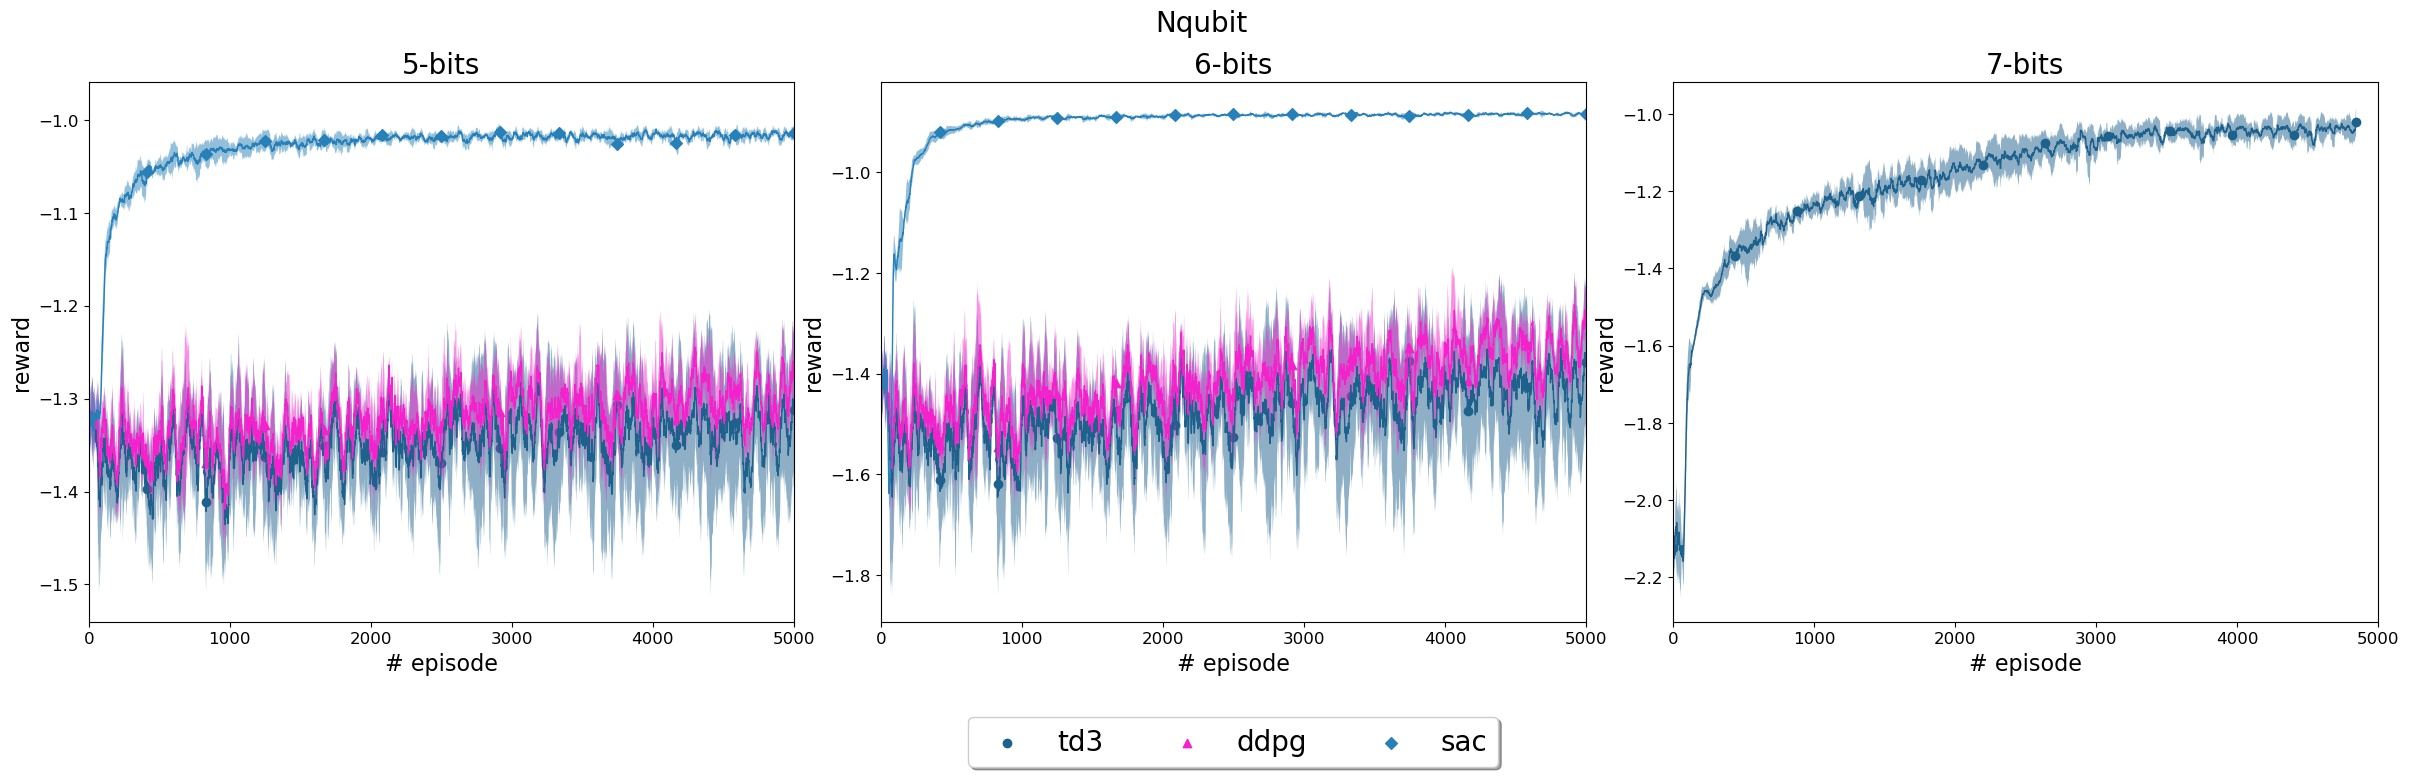
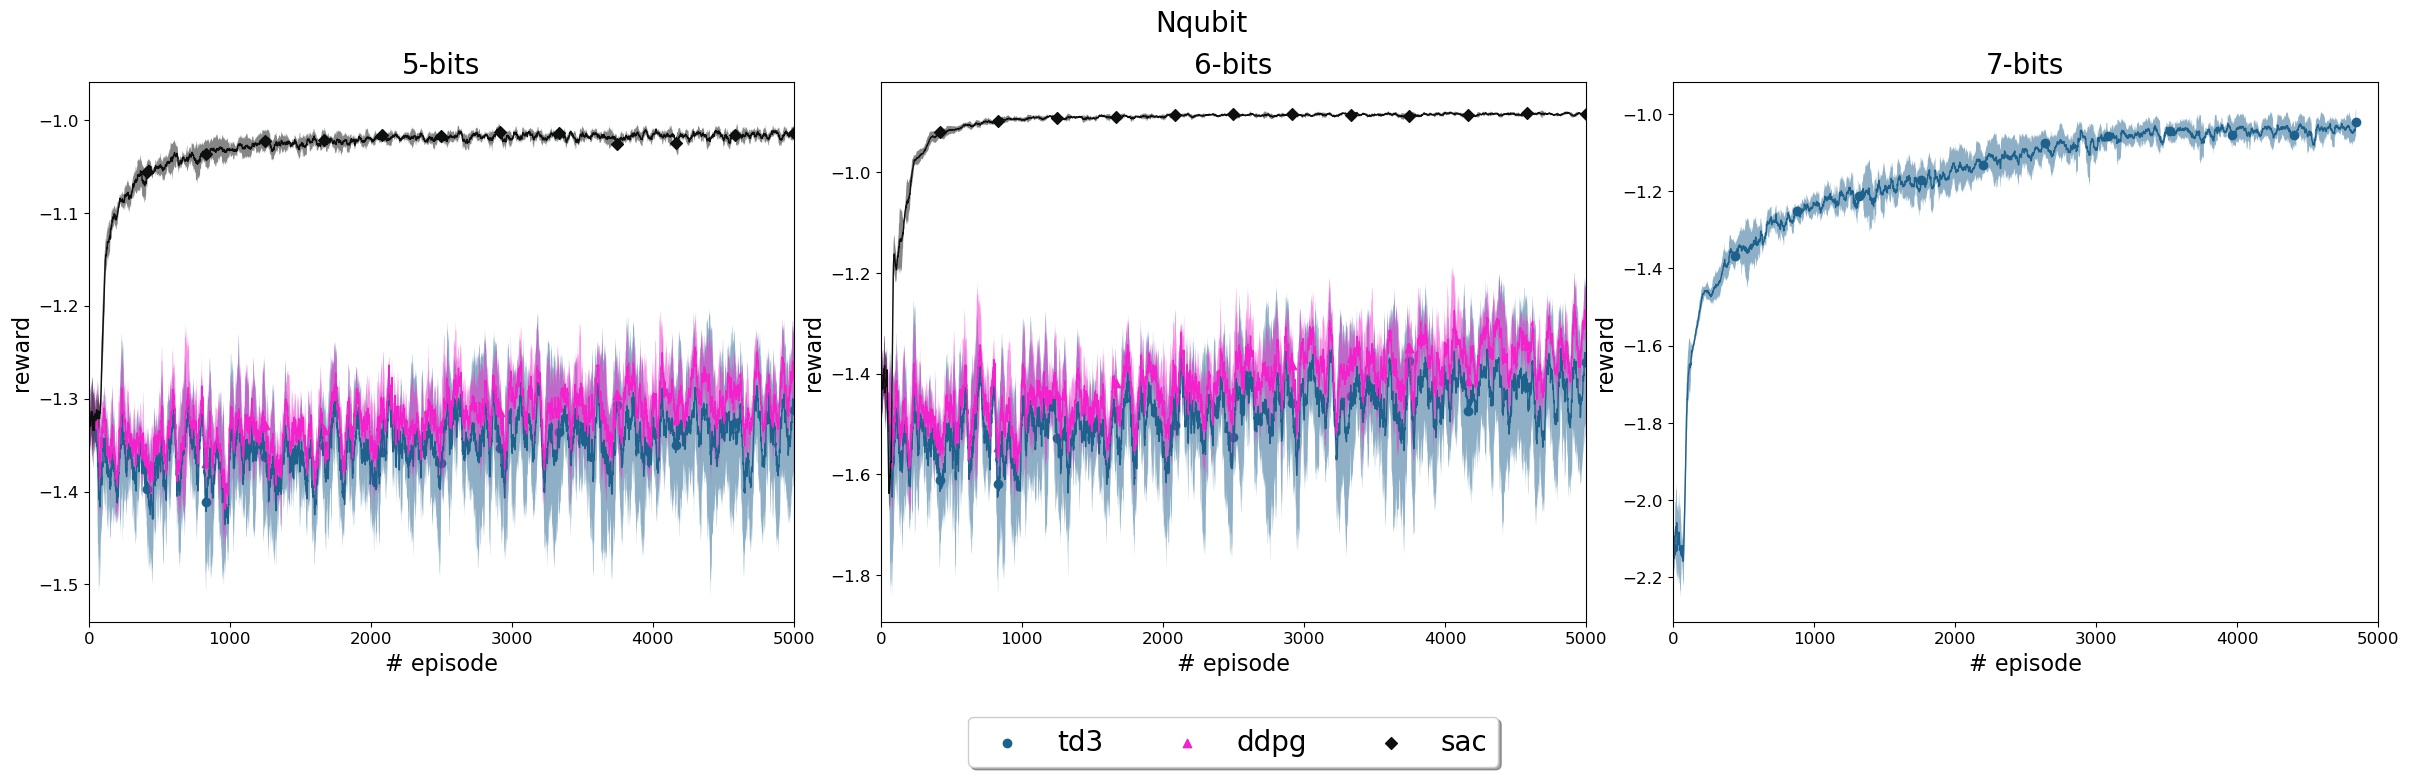
plot_dqn finished. ablation study finished

diff --git a/nqubit/plot/plot_dqn.py b/nqubit/plot/plot_dqn.py
@@ -1,0 +1,130 @@
+import numpy as np
+import glob
+import os
+import matplotlib.pyplot as plt
+
+color_dictionary = {
+    0: "#1F618D", 1: "#F322CD", 2: "#0E0F0F", 3: "#7FB3D5", 4: "#22DAF3",
+    5: "#5B2C6F", 6: "#800000", 7: "#008000", 8: "#008000", 9: "#E74C3C",
+    10: "#D35400", 11: "#800000", 12: "#2980B9", 13: "#F1948A", 14: "#1C2833",
+    15: "#E74C3C", 16: "#0000FF" 
+}
+
+marker_dictionary = {
+    0:"o", 1:"^", 2:"D", 3:"x", 4:">", 5:"1", 6:"p", 7:"P", 8:"*"
+}
+def get_txt_path(dqn_path_n):
+
+    '''
+
+    input: dqn_path_n = './results/DQN_data/5/'
+    output: ['./results/DQN_data/5/eachstep50.226368.txt', './results/DQN_data/5/eachstep50.232696.txt']
+
+    '''
+
+    data_path = glob.glob(dqn_path_n + '*')
+    base_names = []
+
+    for txt in data_path:
+        base_names.append(os.path.basename(txt))
+    each_step_txt = []
+
+    for txt in base_names:
+        if txt.startswith('eachstep'):
+            each_step_txt.append(txt)
+
+    path_to_txt = [dqn_path_n + txt for txt in each_step_txt]
+    return path_to_txt
+
+def read_data_from_txt(path_to_single_txt):
+    '''
+    input: ./results/DQN_data/5/eachstep50.226368.txt
+    '''
+    str_data = []
+    line_count = 1
+    with open(path_to_single_txt, 'r') as f:
+        for line in f:
+            if line.startswith('-'):
+                str_data.append(line)
+                line_count += 1
+            else:
+                str_data[line_count - 2] = str_data[line_count - 2] + line
+    
+    step_threshold = []
+    for i in range(len(str_data)):
+        number = np.float(str_data[i].split('\n')[0].split('_')[0])
+        step_threshold.append(number)
+
+    return step_threshold
+
+def plot_n_bit_dqn(ax, dqn_path_n, n, linewidth = 2.0, scatter_space = 1000, smooth_index=60):
+    '''
+    input: dqn_path_n = '../results/DQN_data/5/'
+    '''
+    path_to_txt = get_txt_path(dqn_path_n)
+
+    num_curves = len(path_to_txt)
+    if num_curves > 4:
+        num_curves = 4
+
+    ax.set_xlabel('#step', fontsize = 20)
+    ax.set_ylabel('reward', fontsize = 20)
+    ax.set_title('{0}-bit'.format(n), fontsize = 20)
+
+    # read_data
+    data = []
+    data_length = []
+
+    for i in range(num_curves):
+        step_threshold = read_data_from_txt(path_to_txt[i])
+        step_len = len(step_threshold)
+        ##### smoothing #####
+        smooth_array = np.zeros(step_len)
+        for ele in range(step_len):
+            smooth_array[ele] = np.array([j for j in step_threshold[ele:ele+smooth_index]]).mean()
+
+        data.append(smooth_array)
+        data_length.append(step_len)
+        
+
+    min_length = min(data_length)
+    data_reshape = np.zeros((num_curves, min_length))
+
+    for i in range(num_curves):
+        data_reshape[i] = data[i][0:min_length]
+    
+    data = data_reshape
+    index = [i for i in range(min_length)]
+    label = ['{}-run'.format(i+1) for i in range(num_curves)]
+
+    for num in range(num_curves):
+        ax.plot(index, data[num][:], color=color_dictionary[num], linewidth= linewidth)
+
+        x_scatter = np.linspace(0, min_length-1, int(min_length/scatter_space), dtype=np.int)
+        y_scatter = data[num][x_scatter]
+        ax.scatter(x_scatter, y_scatter, color=color_dictionary[num], label=label[num], marker=marker_dictionary[num])
+
+    
+    ax.legend(loc='upper center', bbox_to_anchor=(0.5, -0.15),fancybox=True, shadow=True, ncol=num_curves, fontsize = 20)
+
+
+    for label in ax.xaxis.get_ticklabels():
+        label.set_fontsize(16)
+    for label in ax.yaxis.get_ticklabels():
+        label.set_fontsize(16)
+
+    plt.savefig('{}-bit-dqn.jpg'.format(n), dpi = 100, bbox_inches='tight')
+        
+        
+
+
+
+if __name__ == '__main__':
+    fig, ax = plt.subplots(1, 1, figsize = (25, 16))
+    #ax_count = 0
+    #for nbit in [5, 6, 7, 9, 11]:
+    nbit = 11
+    dqn_path_n = '../results/DQN_data/{}/'.format(nbit)
+    plot_n_bit_dqn(ax, dqn_path_n, nbit)
+        
+    

diff --git a/nqubit/plot/plot_tf_events.py b/nqubit/plot/plot_tf_events.py
@@ -5,14 +5,13 @@ import re
 import matplotlib.pyplot as plt
 from tensorboard.backend.event_processing.event_accumulator import EventAccumulator
 
-dqn_path = './results/DQN_data/5/*'
 
 
 color_dictionary = {
-    0: "#1F618D", 1: "#F322CD", 2: "#2980B9", 3: "#7FB3D5", 4: "#22DAF3",
+    0: "#1F618D", 1: "#F322CD", 2: "#0E0F0F", 3: "#7FB3D5", 4: "#22DAF3",
     5: "#5B2C6F", 6: "#800000", 7: "#008000", 8: "#008000", 9: "#E74C3C",
-    10: "#D35400", 11: "#800000", 12: "#0E0F0F", 13: "#F1948A", 14: "#1C2833",
-    15: "#E74C3C", 16: "#0000FF"
+    10: "#D35400", 11: "#800000", 12: "#2980B9", 13: "#F1948A", 14: "#1C2833",
+    15: "#E74C3C", 16: "#0000FF" 
 }
 marker_dictionary = {
     0:"o", 1:"^", 2:"D", 3:"x"
@@ -23,7 +22,9 @@ linestyle_dictionary = {
 
 
 def plot_func(ax, method_dirs, color, label, marker, smooth_index=30, alpha=0.5, linewidth=1.0, scatter_space = 400):
-    
+    '''
+    input: method_dirs : ['algo1/seed1','~algo1/seed4']
+    '''
     ##### extrat data from all seeds #####
     y_seeds = []
     y_length = []
@@ -74,6 +75,7 @@ def plot_func(ax, method_dirs, color, label, marker, smooth_index=30, alpha=0.5,
 def dir_process(data_path):
     '''
     data_path = './results/latest_version5/*'
+    final_path = '[['algo1/seed1','~algo1/seed4'], ['~/algo2/seed1', '~/algo2/seed4']]'
     '''
 
     method_paths = glob.glob(data_path)
@@ -103,9 +105,21 @@ def main_plot():
     # plot axes
     ax_count = 0
     for nbit in [5, 6, 7]:                                   # key_part to change [5, 6, 7]
+        # td3,sac,ddpg dirs
         print('plotting {0} axes'.format(ax_count + 1))
         data_path_n = '../results/latest_version{0}/*'.format(nbit)
         final_path, method_names = dir_process(data_path_n)
+
+        '''
+        # dqn_dirs
+        dqn_data_path = '../results/DQN_data/{0}/'.format(nbit)
+        path_to_txt = get_txt_path(dqn_data_path)
+        
+        final_path.append(path_to_txt[0:4])
+        method_names.append('dqn')
+        '''
+
+        # plot 4 curve for 3 axes
         for i in range(len(method_names)):
             plot_func(axs[ax_count], final_path[i], color_dictionary[i], method_names[i], marker_dictionary[i])
 
@@ -133,3 +147,4 @@ def main_plot():
 
 if __name__ == '__main__':
     main_plot()
+    

diff --git a/nqubit/utils/nqbit_parameters.py b/nqubit/utils/nqbit_parameters.py
@@ -16,7 +16,7 @@ def get_args():
     parser.add_argument('--seed', type = int, default = 1)
 
     # Control Variable
-    parser.add_argument('--num_episodes', type = int, default = int(1e4))        # int(1e4)
+    parser.add_argument('--num_episodes', type = int, default = int(5e3))        # int(1e4)
     parser.add_argument('--episode_length', type = int, default = 30)            # 30 for one-hot
     parser.add_argument('--random_steps', type = int, default = 2000)            # 2000
     parser.add_argument('--learn_start_steps', type = int, default = 2000)       # 2000

diff --git a/nqubit/Train_SAC.py b/nqubit/Train_SAC.py
@@ -22,8 +22,8 @@ if __name__ == '__main__':
 
     # log dir & summary writer
     current_dir = './results'
-    train_log_dir = '/latest_version' + str(args.nbit) + '/sac'
-    exp_name = '/seed{0}'.format(args.seed)
+    train_log_dir = '/latest_episode_length' + str(args.nbit) + '/sac'
+    exp_name = '/episode_length{0}'.format(args.episode_length)
     log_dir = current_dir + train_log_dir + exp_name 
 
     try:
